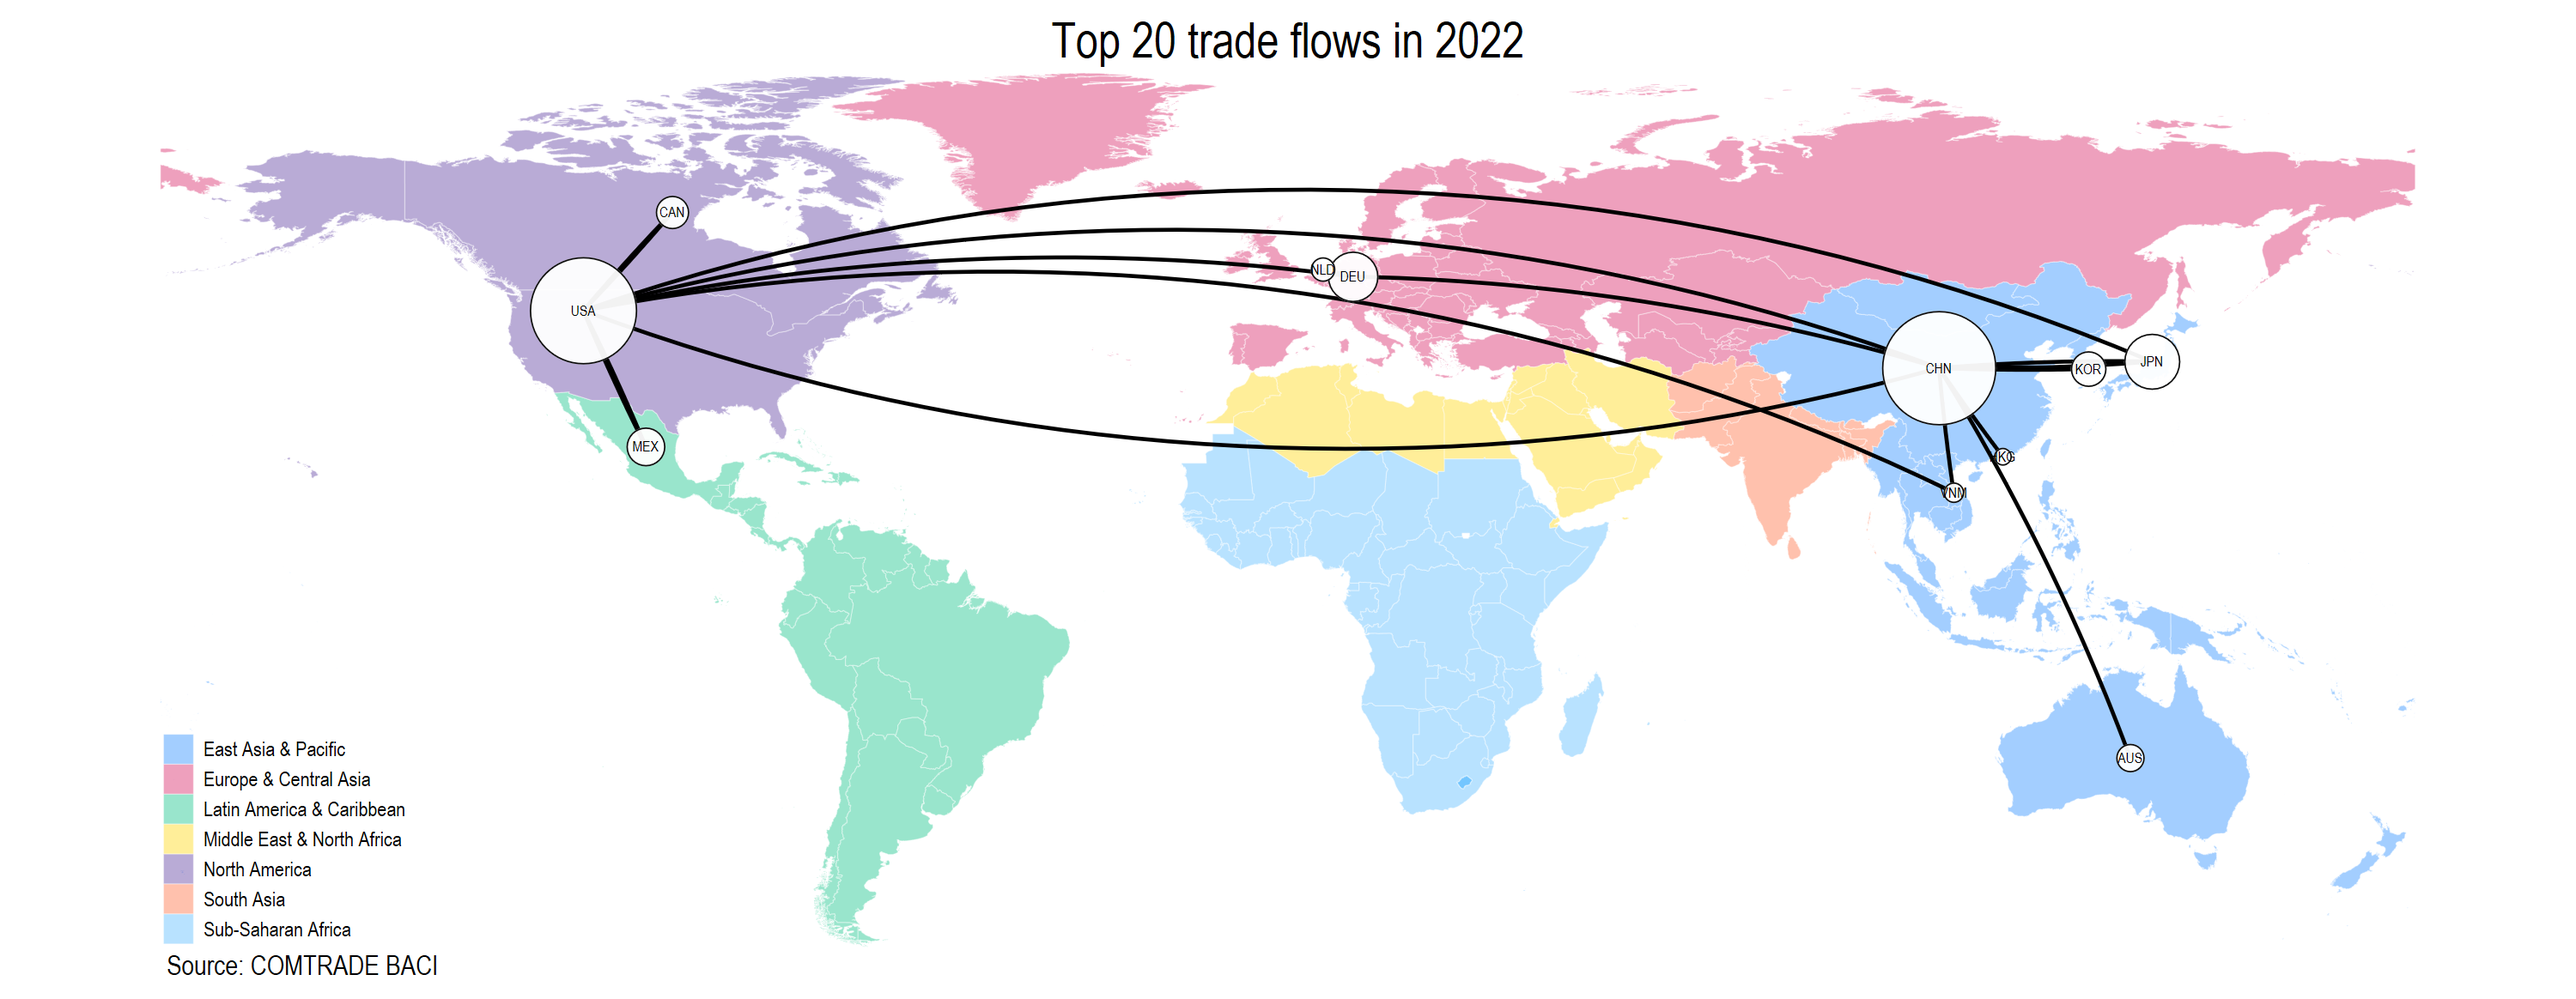
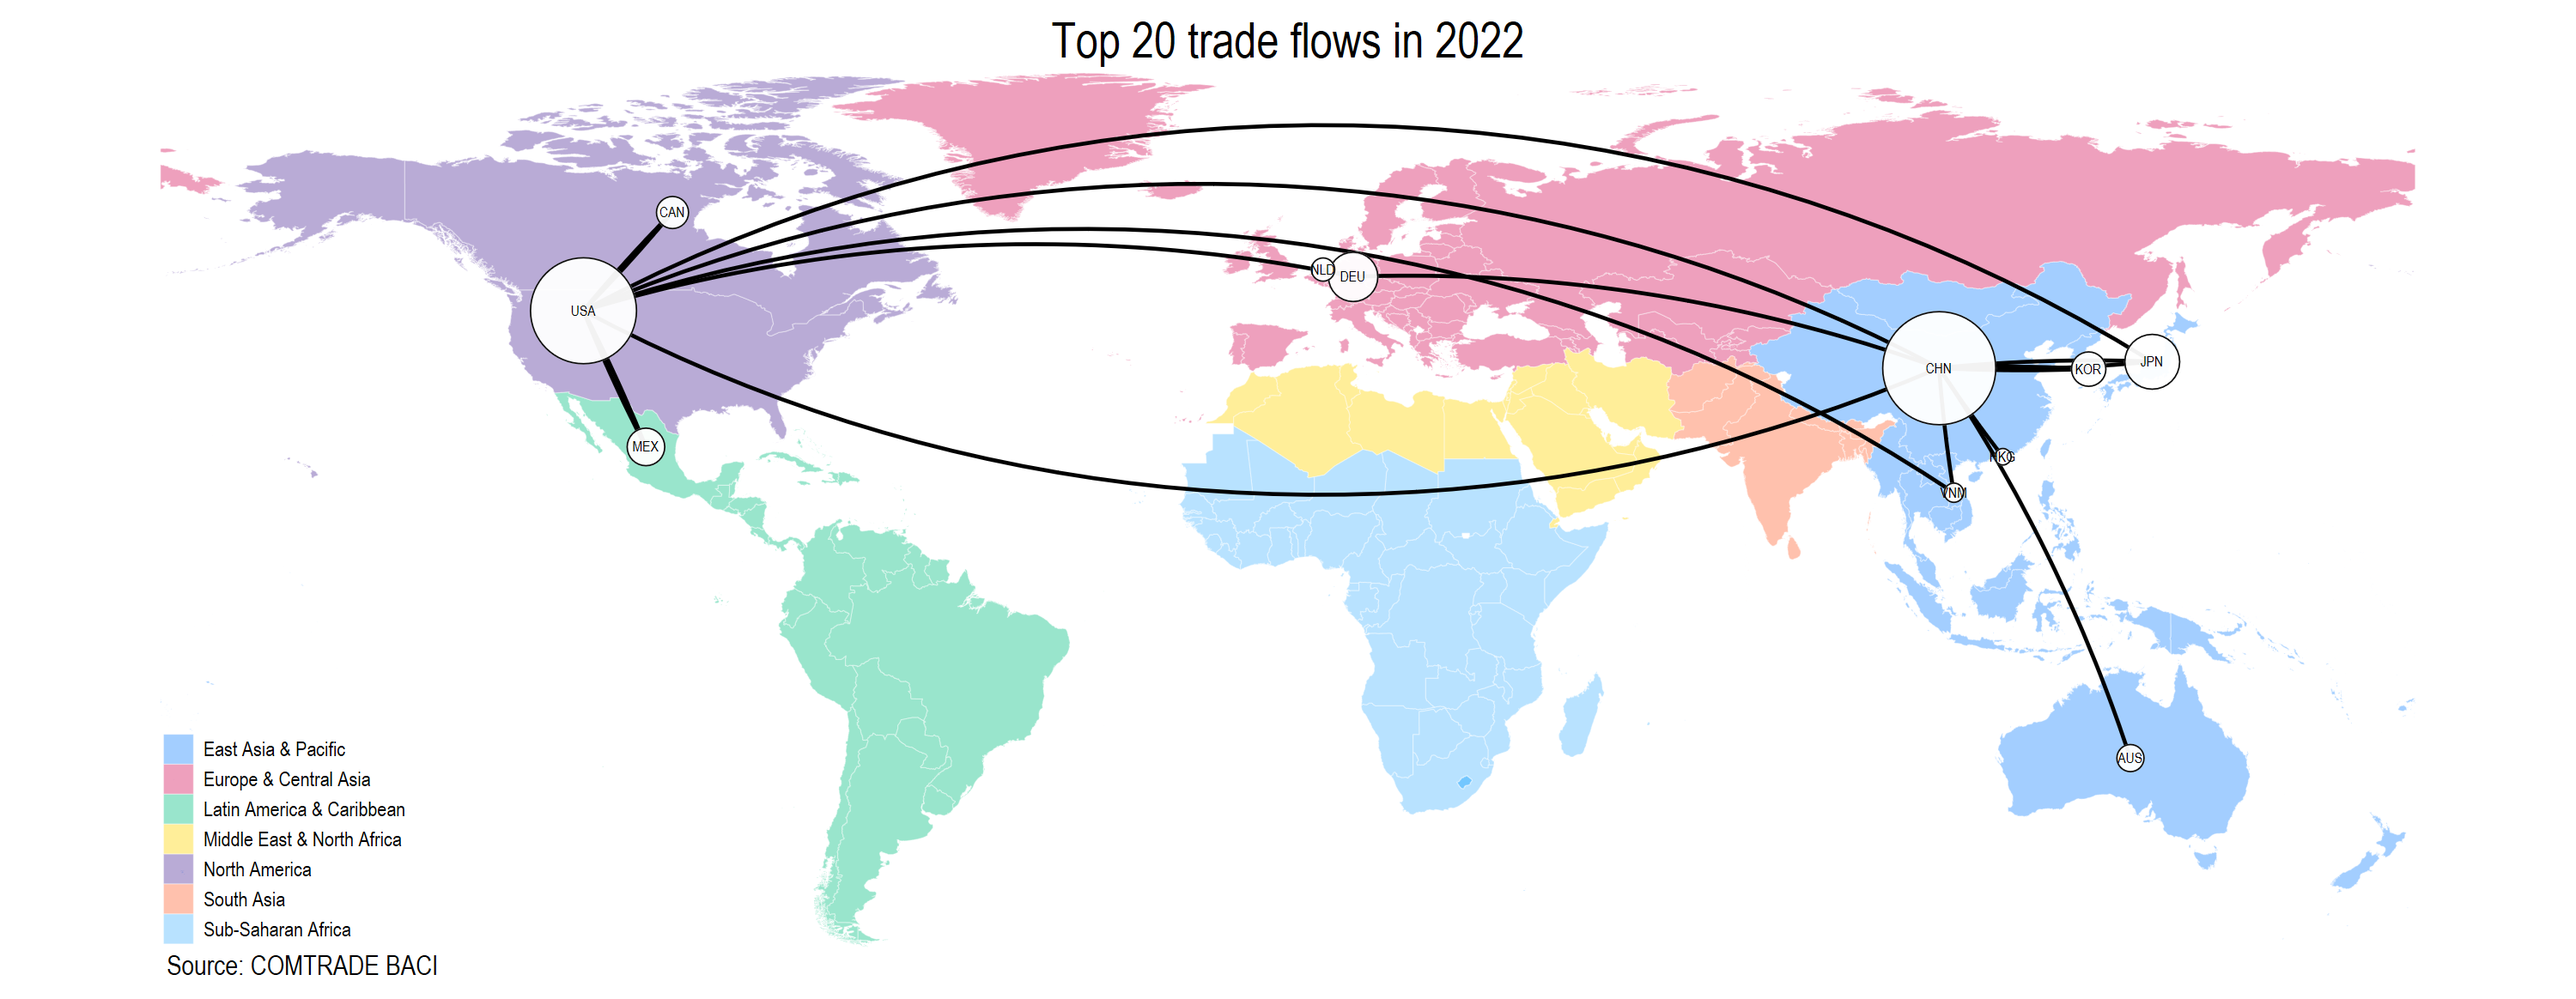
v1.1 updates

diff --git a/README.md b/README.md
@@ -1,7 +1,7 @@
 
 ![StataMin](https://img.shields.io/badge/stata-2015-blue) ![issues](https://img.shields.io/github/issues/asjadnaqvi/stata-geoflow) ![license](https://img.shields.io/github/license/asjadnaqvi/stata-geoflow) ![Stars](https://img.shields.io/github/stars/asjadnaqvi/stata-geoflow) ![version](https://img.shields.io/github/v/release/asjadnaqvi/stata-geoflow) ![release](https://img.shields.io/github/release-date/asjadnaqvi/stata-geoflow)
 
-[Installation](#Installation) | [Syntax](#Syntax) | [Examples](#Examples) | [Feedback](#Feedback) | [Disclaimer](#Disclaimer)  | [Change log](#Change-log)
+[Installation](#Installation) | [Syntax](#Syntax) | [Examples](#Examples) | [Feedback](#Feedback) | [Change log](#Change-log)
 
 ---
 
@@ -10,10 +10,10 @@
 
 
 
-# geoflow v1.0
-(12 Jan 2025)
+# geoflow v1.1
+(30 Oct 2026)
 
-A Stata module for generating spatial flow arcs.
+A Stata module for generating spatial arcs.
 
 
 ## Installation
@@ -26,7 +26,7 @@ The SSC version (**v1.0**):
 ssc install geoflow, replace
 ```
 
-Or it can be installed from GitHub (**v1.0**):
+Or it can be installed from GitHub (**v1.1**):
 
 ```stata
 net install geoflow, from("https://raw.githubusercontent.com/asjadnaqvi/stata-geoflow/main/installation/") replace
@@ -36,6 +36,13 @@ Install the following dependencies:
 
 ```stata
 ssc install graphfunctions, replace
+```
+
+The map examples also require `geoframe` and `geoplot`:
+
+```stata
+ssc install geoframe, replace
+net install geoplot, from("https://raw.githubusercontent.com/benjann/geoplot/main/") replace
 ```
 
 Additional code for the maps shown below:
@@ -50,23 +57,10 @@ graph set window fontface "Arial Narrow"
 
 
 ## Citation guidelines
-Software packages take countless hours of programming, testing, and bug fixing. If you use this package, then a citation would be highly appreciated:
 
+Software packages take countless hours of programming, testing, and bug fixing. If you use this package, then a citation would be highly appreciated.
 
-Click here for the latest [SSC citation](XXXX).
-
-
-otherwise the following BibTeX citation can be used:
-
-```BibTeX
-@software{geoflow,
-   author = {Naqvi, Asjad},
-   title = {Stata package ``geoflow''},
-   url = {https://github.com/asjadnaqvi/stata-geoflow},
-   version = {1.0},
-   date = {2025-01-12}
-}
-```
+The [SSC citation](https://ideas.repec.org/c/boc/bocode/s459413.html) is recommended. Please note that the GitHub version might be newer than the SSC version.
 
 
 ## Syntax
@@ -74,7 +68,7 @@ otherwise the following BibTeX citation can be used:
 
 
 ```stata
-geoflow numvar [if] [in] {using}, from(varname) to(varname) key(var) saving(filename) [ replace cuts(num) top(num) points(num) ] 
+geoflow numvar [if] [in] using filename, from(varname) to(varname) key(varname) save(filename) [replace groups(integer) top(integer) points(integer) geoframe radius(real) arrow mark]
 
 ```
 
@@ -84,11 +78,13 @@ The package assumes that the users have the following two files:
 - **file1**: This file should contain a numeric numvar flow variable defined by *from()* and *to()* identifiers. This file should already be loaded before using the command.
 - **file2**: This file should contain a unique *key()* variable for which coordinates are defined and can be merged with *from()* and *to()* variables in **file1**.
 
-The coordinates should be in the form *_CX* and *_CY*. These are generated by default if *spshape2dta* is used. 
+The node dataset must contain numeric `_ID`, `_CX`, and `_CY` variables. These are generated by default if `spshape2dta` is used. The `key()` variable belongs to this dataset and need not exist in the loaded flow data.
 
 
 
 See `help geoflow` for details.
+
+If `radius()` is omitted, `geoflow` automatically uses the longest source-to-destination straight-line distance among the selected, matched flows as a shared radius. This adapts to the coordinate units and extent rather than assuming a fixed radius of 350. An explicit `radius(#)` must be positive and at least half the longest selected distance. Smaller radii give more curved arcs. The chosen value is returned in `r(arcradius)`. Exclude flows with missing coordinates, nonfinite distances, or coincident endpoints before generating arcs.
 
 
 ## Examples
@@ -99,35 +95,37 @@ Get the global boundary data using the latest version of the [geoboundary](https
 geoboundary WLD, replace convert remove source(worldbank) 
 ```
 
-Clean it up a up since ISO3 values have duplicates due to territories:
+Clean it up since ISO3 values can have duplicates due to territories:
 
-```
+```stata
 use WB_ADM0, clear
 	duplicates list ISO_A3
 	drop if ISO_A3=="-99"
 	drop if TYPE=="Dependency"
 	drop if inlist(WB_A3, "BES", "TKL")
 
+isid ISO_A3
 compress
 save iso_meta, replace 
 ```
 
-This create our master node attributes file that also contains the coordinates.
+This creates our master node attributes file that also contains the coordinates.
 
 
 Load the sample trade data file derived from COMTRADE [BACI](https://www.cepii.fr/CEPII/en/bdd_modele/bdd_modele_item.asp?id=37) for 2022:
 
-```
+```stata
 use "https://github.com/asjadnaqvi/stata-geoflow/blob/main/GIS/baci_2022.dta?raw=true", clear
 ```
 
 Create flow arcs for the top 20 values:
 
 ```stata
-geoflow value using iso_meta, from(ex_iso3) to(im_iso3) key(ISO_A3) top(20) save(links) geoframe replace mark
+geoflow value using iso_meta, from(ex_iso3) to(im_iso3) key(ISO_A3) top(20) ///
+    save(links) geoframe replace mark
 ```
 
-Also see `return list` that stores the radius value in local `r(georadius)`. Since we specified the `geoframe` option, we can view the data by switching to this frame: `frame change links`.
+Also see `return list`, which stores the radius value in `r(arcradius)`. Since we specified the `geoframe` option, we can view the data by switching to this frame: `frame change links`.
 
 Now create another frame that contains the boundaries and the node attributes:
 
@@ -135,7 +133,7 @@ Now create another frame that contains the boundaries and the node attributes:
 geoframe create metadata iso_meta, replace shp(WB_ADM0_shp)
 ```
 
-Note here that we are using the our cleaned up file for the attributes. You can view the data by switching to this frame `frame change metadata`.
+Here we use the cleaned node file for the attributes. The shape frame `WB_ADM0_shp` must be available from the boundary-data setup. Keep the trade data in the `default` frame so the following examples can reuse it.
 
 Plot the information:
 
@@ -151,19 +149,88 @@ geoplot ///
 
 <img src="/GIS/geoflow1.png" width="100%">
 
+The node markers are scaled by `GDP_MD_EST`. The `mark` option overwrites `_mark` in the node dataset and saves that dataset back to disk: participating nodes receive 1 and other nodes receive missing. Recreate or reload `metadata` after each use of `mark` to display the updated selection.
+
+The `arrow` option adds the endpoint coordinates used by a `pcarrow` layer. Set arrowhead size directly with the layer's `msize()` option. The arrow points from `from()` to `to()`.
+
+### Showcase arrows without node markers
+
+Node markers can cover arrowheads at the destinations. Omit the point and label layers to show the arrows clearly. Generate arrow coordinates and use `msize(2)` for the arrowheads:
+
+```stata
+frame change default
+geoflow value using iso_meta, from(ex_iso3) to(im_iso3) key(ISO_A3) ///
+    top(20) save(links_large_arrows) geoframe replace arrow
+
+geoplot ///
+    (area metadata i.REGION_WB, color(%40) lw(0.1) lc(white)) ///
+    (line links_large_arrows i._ID, lwidth(0.4) color(black)) ///
+    (pcarrow links_large_arrows, ///
+        coordinates(_arrow_x1 _arrow_y1 _arrow_x2 _arrow_y2) ///
+        msize(2) lcolor(black) mcolor(black)), ///
+    tight legend(pos(7)) ///
+    title("Top 20 trade flows: arrows without nodes") ///
+    note("Source: COMTRADE BACI")
+```
+
+<img src="/GIS/geoflow1_arrows_large.png" width="100%">
+
+### Filter flows to or from one country
+
+Use an `if` qualifier to focus on flows involving a particular country. This example keeps the 20 largest flows to or from China:
+
+```stata
+frame change default
+geoflow value if ex_iso3=="CHN" | im_iso3=="CHN" using iso_meta, ///
+    from(ex_iso3) to(im_iso3) key(ISO_A3) top(20) ///
+    save(china_flows) geoframe replace mark
+
+geoframe create metadata iso_meta, replace shp(WB_ADM0_shp)
+
+geoplot ///
+    (area metadata i.REGION_WB, color(%40) lw(0.1) lc(white)) ///
+    (line china_flows i._ID, lwidth(0.4) color(black)) ///
+    (point metadata [w=GDP_MD_EST] if _mark==1, ///
+        color(white%95) msize(1.6) mlcolor(black)) ///
+    (label metadata ISO_A3 if _mark==1, color(black) size(1.5)), ///
+    tight legend(pos(7)) title("Trade flows to and from China") ///
+    note("Source: COMTRADE BACI")
+```
+
+<img src="/GIS/geoflow_china_arrows.png" width="100%">
+
+Despite the historical image filename, this example uses scaled nodes without arrows. Only the node-free example above overlays arrowheads.
+
+### Group flows into quantiles
+
+The `groups()` option adds a quantile-group variable to the arc data. Here, the 100 largest flows are split into five groups:
+
+```stata
+frame change default
+geoflow value using iso_meta, from(ex_iso3) to(im_iso3) key(ISO_A3) ///
+    top(100) groups(5) save(flow_groups) geoframe replace
+
+frame change flow_groups
+tabulate _group
+```
+
+The `_group` variable can be used to distinguish flow-size groups in subsequent plots.
+
+The examples use the included 2022 trade-flow sample and map files in `GIS/`.
+
 
 
 ## Feedback
 
-Please open an [issue](https://github.com/asjadnaqvi/stata-geoflow/issues) to report errors, feature enhancements, and/or other requests. 
+Please open an [issue](https://github.com/asjadnaqvi/stata-geoflow/issues) to report errors, feature enhancements, and/or other requests.
 
 
 ## Change log
 
+**v1.1 (30 Oct 2026)**
+- Automatically scale the default arc radius to the selected coordinates and validate explicit radii.
+- Added optional arrowhead coordinates for plotting direction with `pcarrow`; arrowhead size is controlled by the plot's `msize()` option.
+- Improved argument validation and dependency checks.
+
 **v1.0 (12 Jan 2025)**
 - First release
-
-
-
-
-
